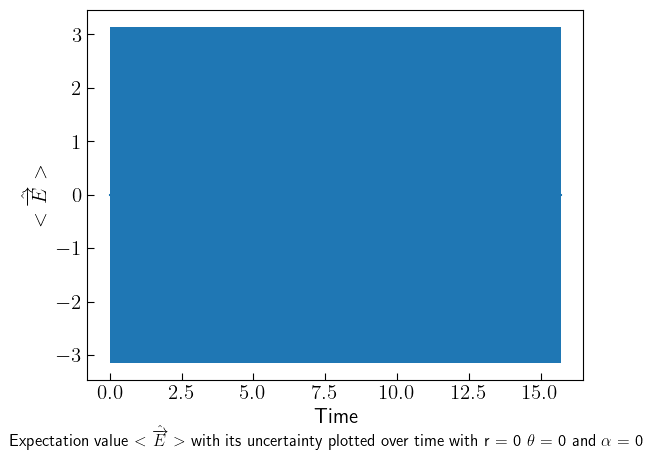
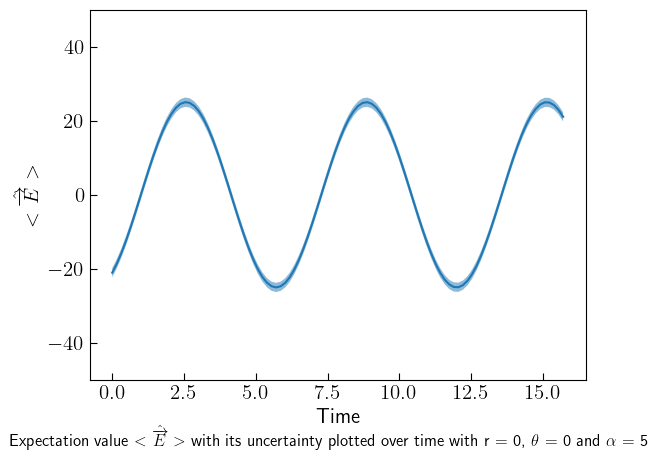
fixed var issues

diff --git a/GenGraph.py b/GenGraph.py
@@ -14,13 +14,16 @@ theta_ii = [0, math.pi]
 
 omega_k = 1
 theta_i = 1
+radius = 1
 k = 1
 vol = 1
 t_arr = np.linspace(0, 5 * math.pi, 100)
-print(t_arr)
 hbar = 1
 # %%
 # part i
+'''
+alpha = 0, r = 0, 1, 2
+'''
 fsize = 15
 lsize = 10
 tdir = 'in'
@@ -46,23 +49,56 @@ for r in r_vals_i:
     for i in range(len(t_arr)):
         t = t_arr[i]    
         eqn_E = 1j * math.sqrt(2*math.pi * hbar * omega_k / vol) * \
-                (alpha_i * cmath.exp(1j * (k * r - omega_k * t)) - \
-                        np.conj(alpha_i) * cmath.exp(-1j * (k * r - omega_k * t)))
+                (alpha_i * cmath.exp(1j * (k * radius - omega_k * t)) - \
+                        np.conj(alpha_i) * cmath.exp(-1j * (k * radius - omega_k * t)))
         eqn_E_arr[i] = eqn_E
         
-        eqn_delta_E = (2*math.pi * hbar * omega_k / vol) * (math.cosh(2 * r) + math.sinh(2 * r) \
-                * math.cos(2 * (k * r - omega_k * t + theta_i / 2)))
+        eqn_delta_E = math.sqrt((2*math.pi * hbar * omega_k / vol) * (math.cosh(2 * r) + math.sinh(2 * r) \
+                * math.cos(2 * (k * radius - omega_k * t + theta_i / 2))))
         uncertainty_arr_real[i] = (eqn_delta_E.real / 2)
-        uncertainty_arr_imag[i] = (eqn_delta_E.imag / 2)
         
     plt.plot(t_arr, eqn_E_arr)
-    plt.fill_between(t_arr, eqn_E_arr - uncertainty_arr_real, eqn_E_arr + uncertainty_arr_real)
+    plt.fill_between(t_arr, eqn_E_arr - uncertainty_arr_real, eqn_E_arr + uncertainty_arr_real, alpha = 0.5)
     plt.ylabel("$<\hat{\overrightarrow{E}}>$")
     plt.xlabel("Time")
+    plt.ylim(-30, 30)
     txt="Expectation value $<\hat{\overrightarrow{E}}>$ with its uncertainty plotted over time with r = " \
             + str(r) + " and $\\alpha$ = " + str(alpha_i)
     plt.figtext(0.5, -0.03, txt, wrap=True, horizontalalignment='center', fontsize=12)
-    plt.savefig("hw_6_computational_r=" + str(r) + "_alpha=" + str(alpha_i), bbox='tight')
+    plt.savefig("hw_6_computational_r=" + str(r) + "_alpha=" + str(alpha_i), bbox_inches = "tight")
     plt.show()
 
+# %%
+# single
+'''
+alpha = 5, r = 0, 1, 2, theta = 0, pi
+'''
+for theta in theta_ii:
+        for r in r_vals_ii:
+                eqn_E_arr = np.zeros(len(t_arr))
+                uncertainty_arr_imag = np.zeros(len(t_arr))
+                uncertainty_arr_real = np.zeros(len(t_arr))
+                for i in range(len(t_arr)):
+                        t = t_arr[i]    
+                        eqn_E = 1j * math.sqrt(2*math.pi * hbar * omega_k / vol) * \
+                                (alpha_ii * cmath.exp(1j * (k * radius - omega_k * t)) - \
+                                        np.conj(alpha_ii) * cmath.exp(-1j * (k * radius - omega_k * t)))
+                        eqn_E_arr[i] = eqn_E
+                        
+                        eqn_delta_E = math.sqrt((2*math.pi * hbar * omega_k / vol) * (math.cosh(2 * r) + math.sinh(2 * r) \
+                                * math.cos(2 * (k * radius - omega_k * t + theta_i / 2))))
+                        uncertainty_arr_real[i] = (eqn_delta_E.real / 2)
+                        uncertainty_arr_imag[i] = (eqn_delta_E.imag / 2)
+                        
+                plt.plot(t_arr, eqn_E_arr)
+                plt.fill_between(t_arr, eqn_E_arr - uncertainty_arr_real, eqn_E_arr + uncertainty_arr_real, alpha = 0.5)
+                plt.ylabel("$<\hat{\overrightarrow{E}}>$")
+                plt.xlabel("Time")
+                txt="Expectation value $<\hat{\overrightarrow{E}}>$ with its uncertainty plotted over time with r = " \
+                        + str(r) + ", $\\theta$ = " + str(theta) + " and $\\alpha$ = " + str(alpha_i)
+                plt.figtext(0.5, -0.03, txt, wrap=True, horizontalalignment='center', fontsize=12)
+                plt.ylim(-30, 30)
+                plt.savefig("hw_6_computational_r=" + str(r) + "_alpha=" + str(alpha_i) + "_theta=" 
+                                + str(theta) + ".png", bbox_inches = "tight")
+                plt.show()
 # %%
